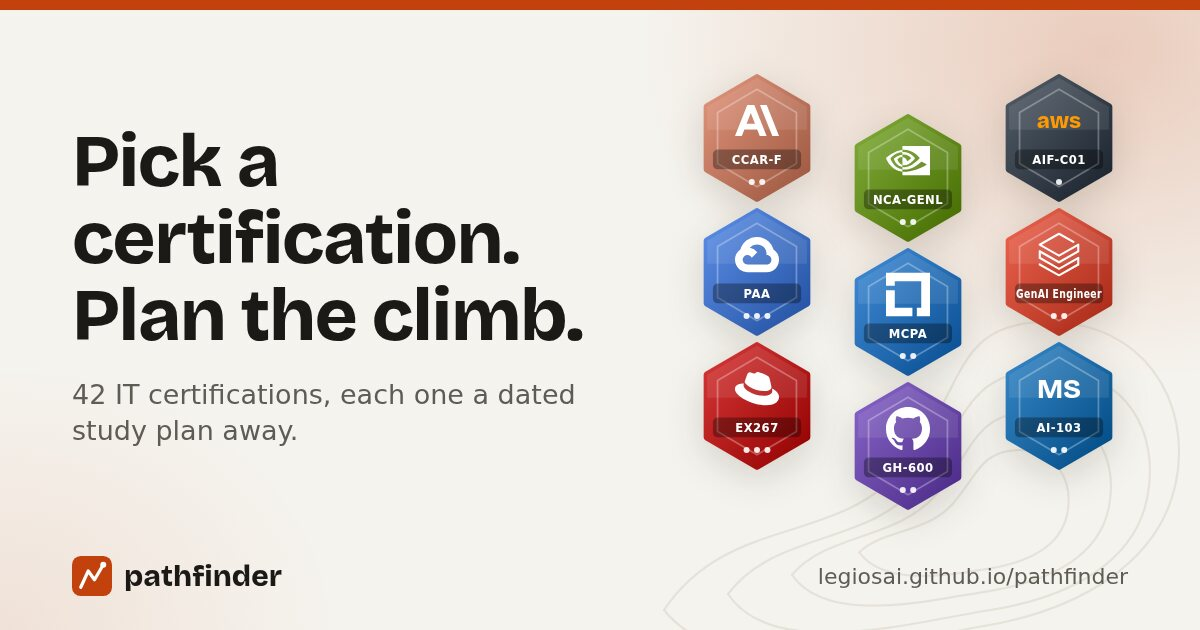
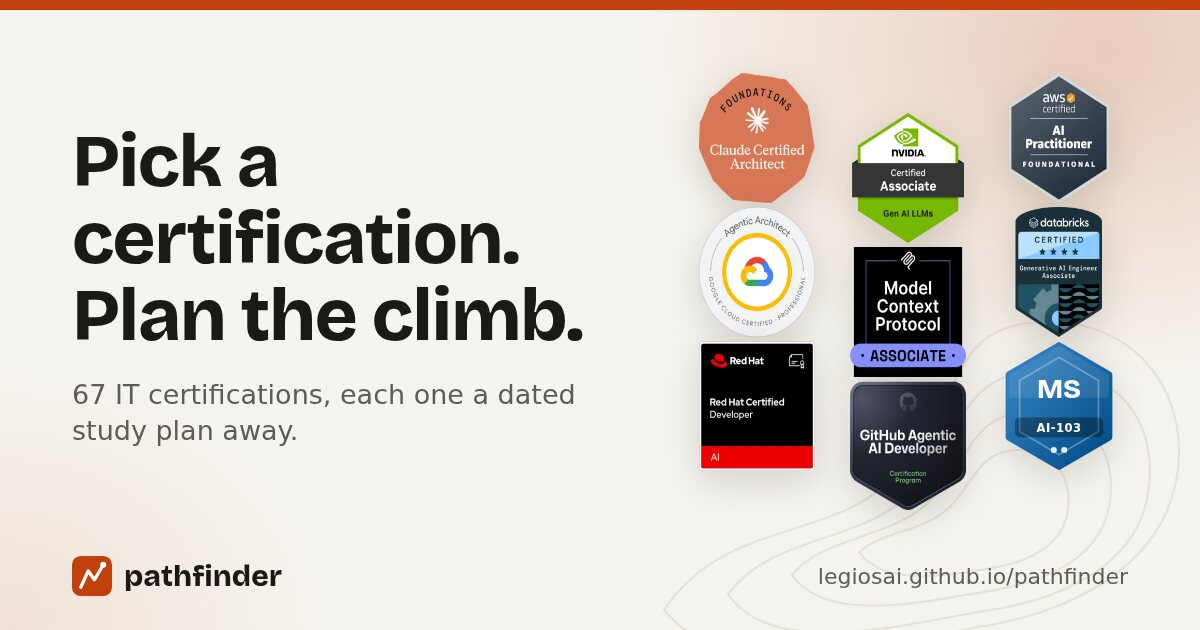
README: 67 certifications, now with cloud, DevOps, networking and data
Update the catalog count, areas and issuers, and the share image that
prints the count.

diff --git a/README.md b/README.md
@@ -17,7 +17,7 @@ No tracking and no backend. Your choices and progress stay in your browser.
 
 ## The catalog
 
-The catalog lists 44 certifications in AI engineering, ML foundations, AI security and cloud platforms, from Anthropic, AWS, NVIDIA, the Linux Foundation, GitHub, Microsoft, Google Cloud, Databricks and others.
+The catalog lists 67 certifications in AI engineering, ML foundations, AI security, cloud platforms, DevOps and Kubernetes, networking, and data and analytics, from Anthropic, AWS, Microsoft, Google Cloud, NVIDIA, the Linux Foundation, Databricks, Snowflake, Cisco, GitHub and others.
 
 - `data/certifications/<id>.json`: one file per certification. Provider facts only (fee, format, domains, requirements), each with its sources and the date they were checked.
 - `data/practice/<id>.json`: original practice questions for a certification, in English and Spanish, under CC BY 4.0. They are never real or recalled exam questions.
@@ -25,7 +25,7 @@ The catalog lists 44 certifications in AI engineering, ML foundations, AI securi
 - `data/reports.json`: public candidate reports (how people prepared, effort, limits). They describe experiences; they do not set a pass rate.
 - `data/taxonomy.json`: skills, roles, levels and the rough hour ranges the planner starts from.
 
-Provider facts were checked in October and November 2026; exam domain weights for 32 of the 44 come from the issuers' own guides. Prices change and vary by country: confirm with the issuer before paying or booking. Certification names and codes belong to their issuers; pathfinder is not affiliated with any of them.
+Provider facts were checked in October and November 2026; exam domain weights for 55 of the 67 come from the issuers' own guides. Prices change and vary by country: confirm with the issuer before paying or booking. Certification names and codes belong to their issuers; pathfinder is not affiliated with any of them.
 
 ## Run it locally
 
